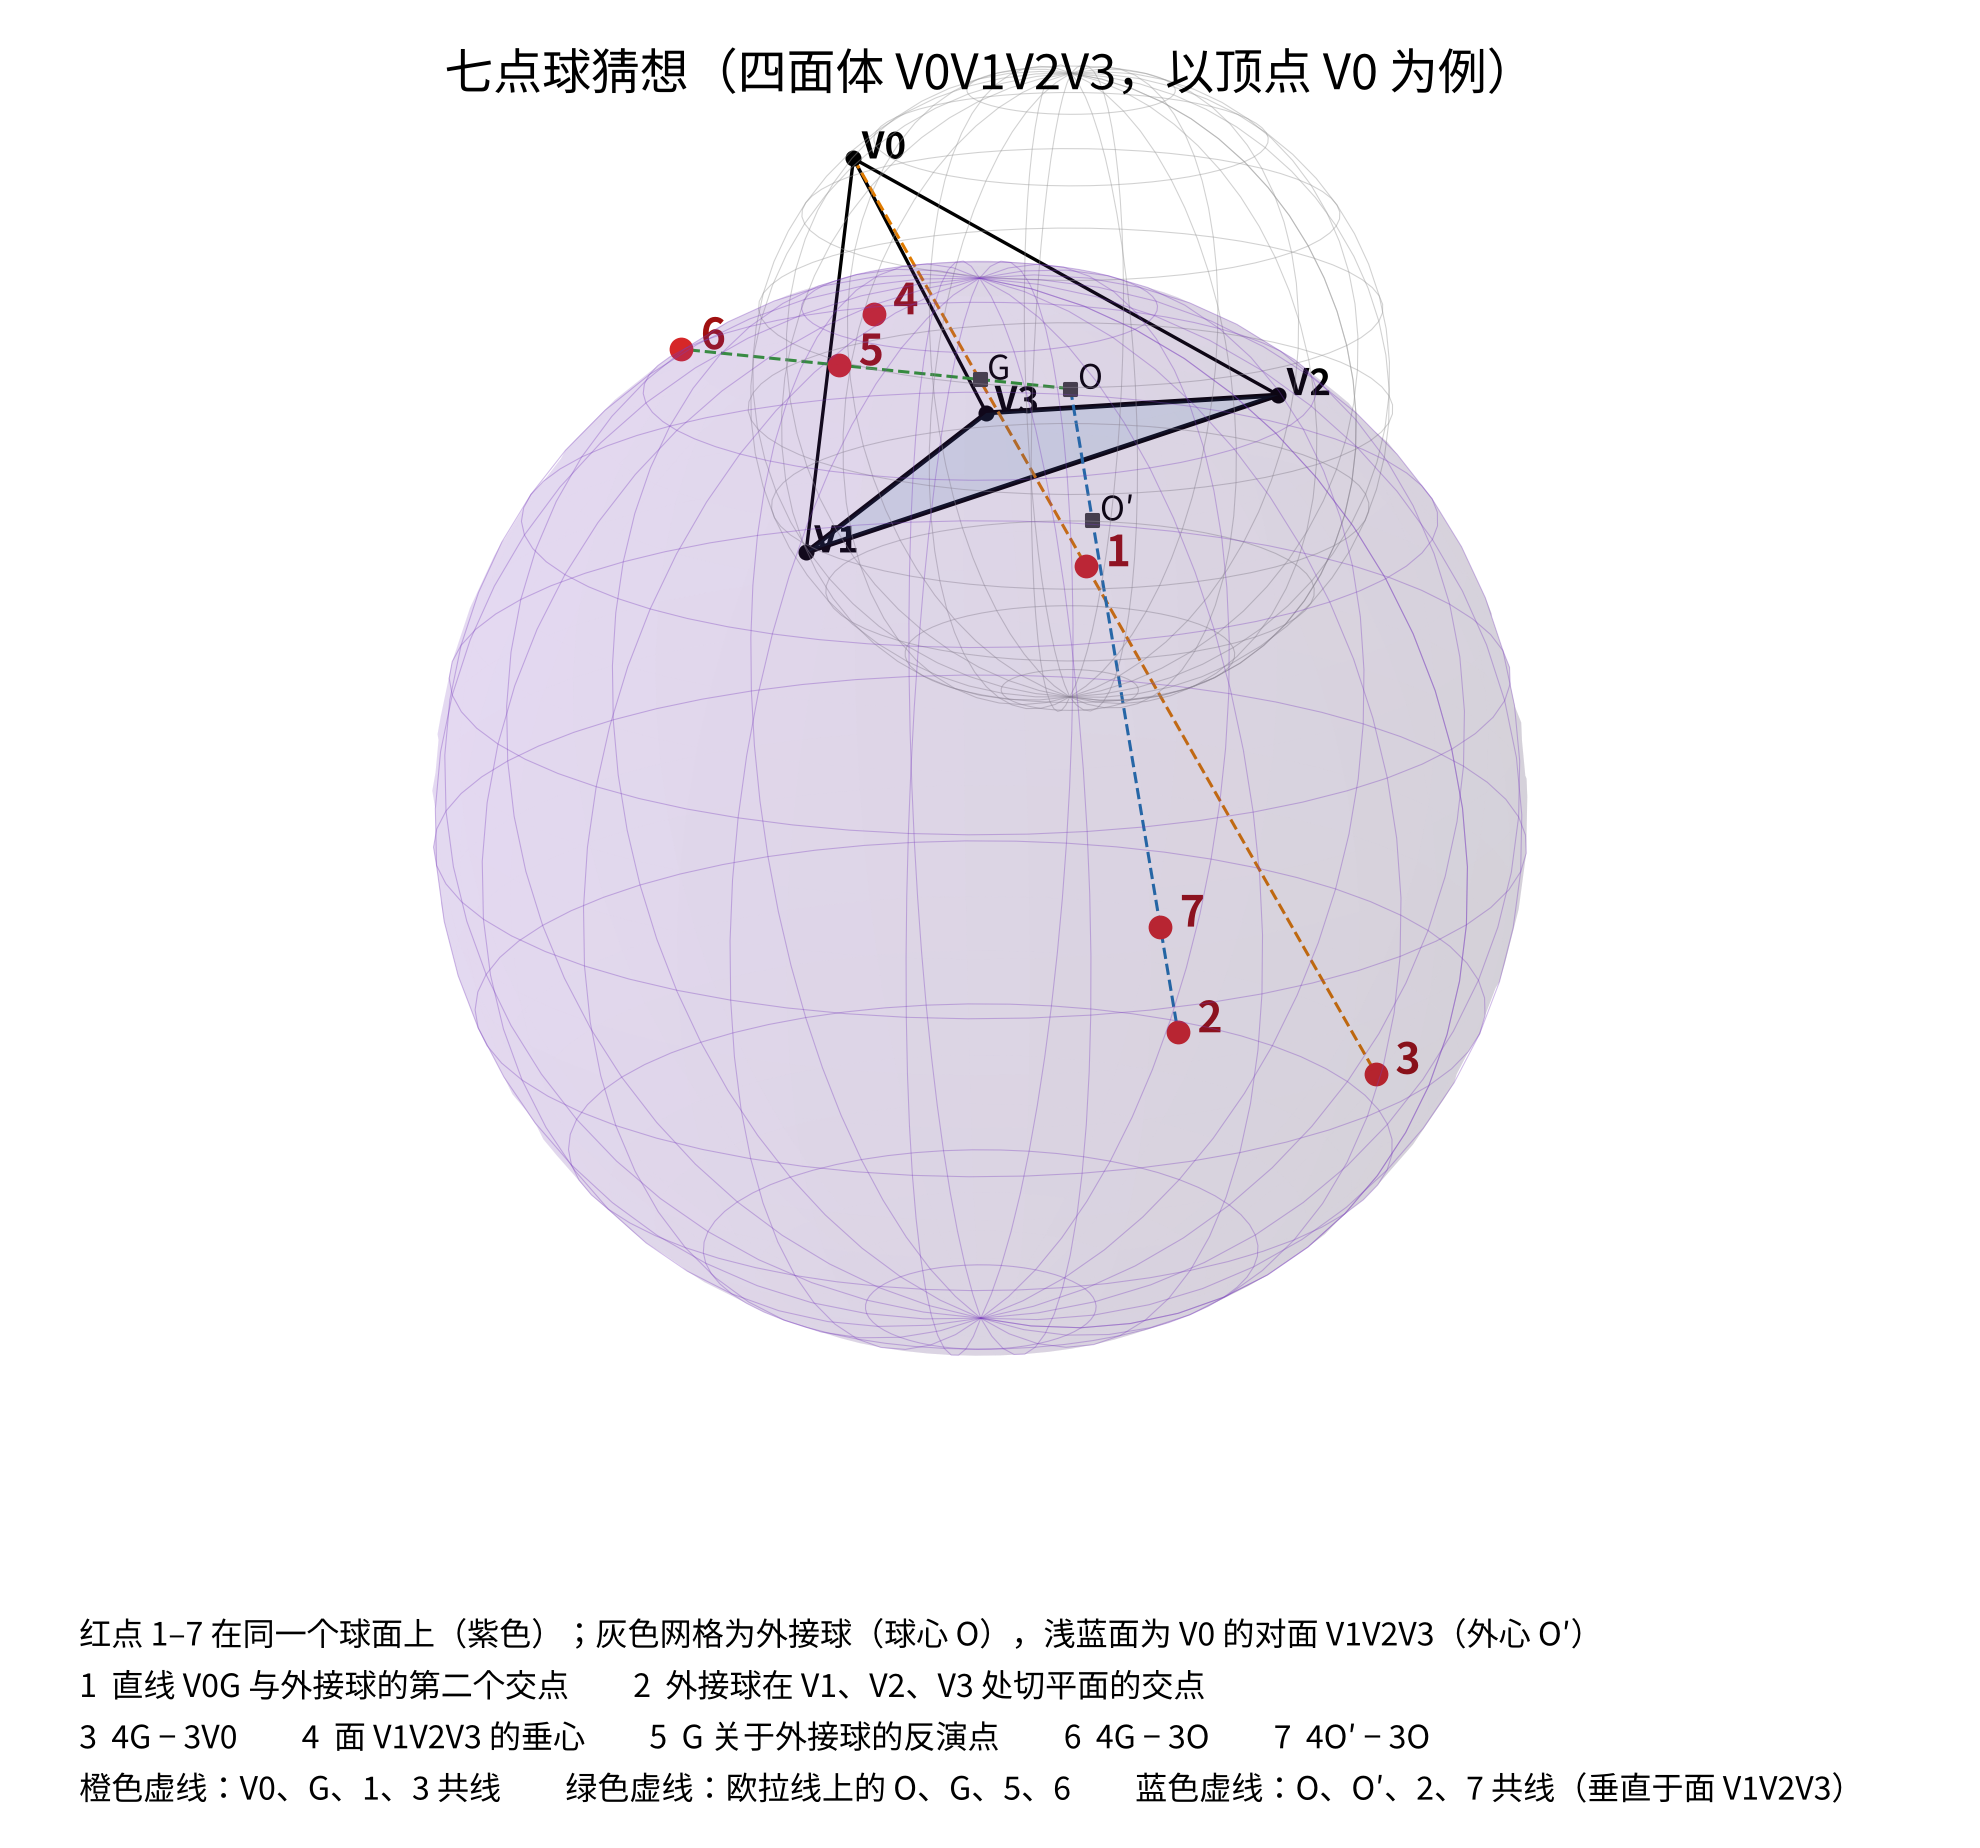
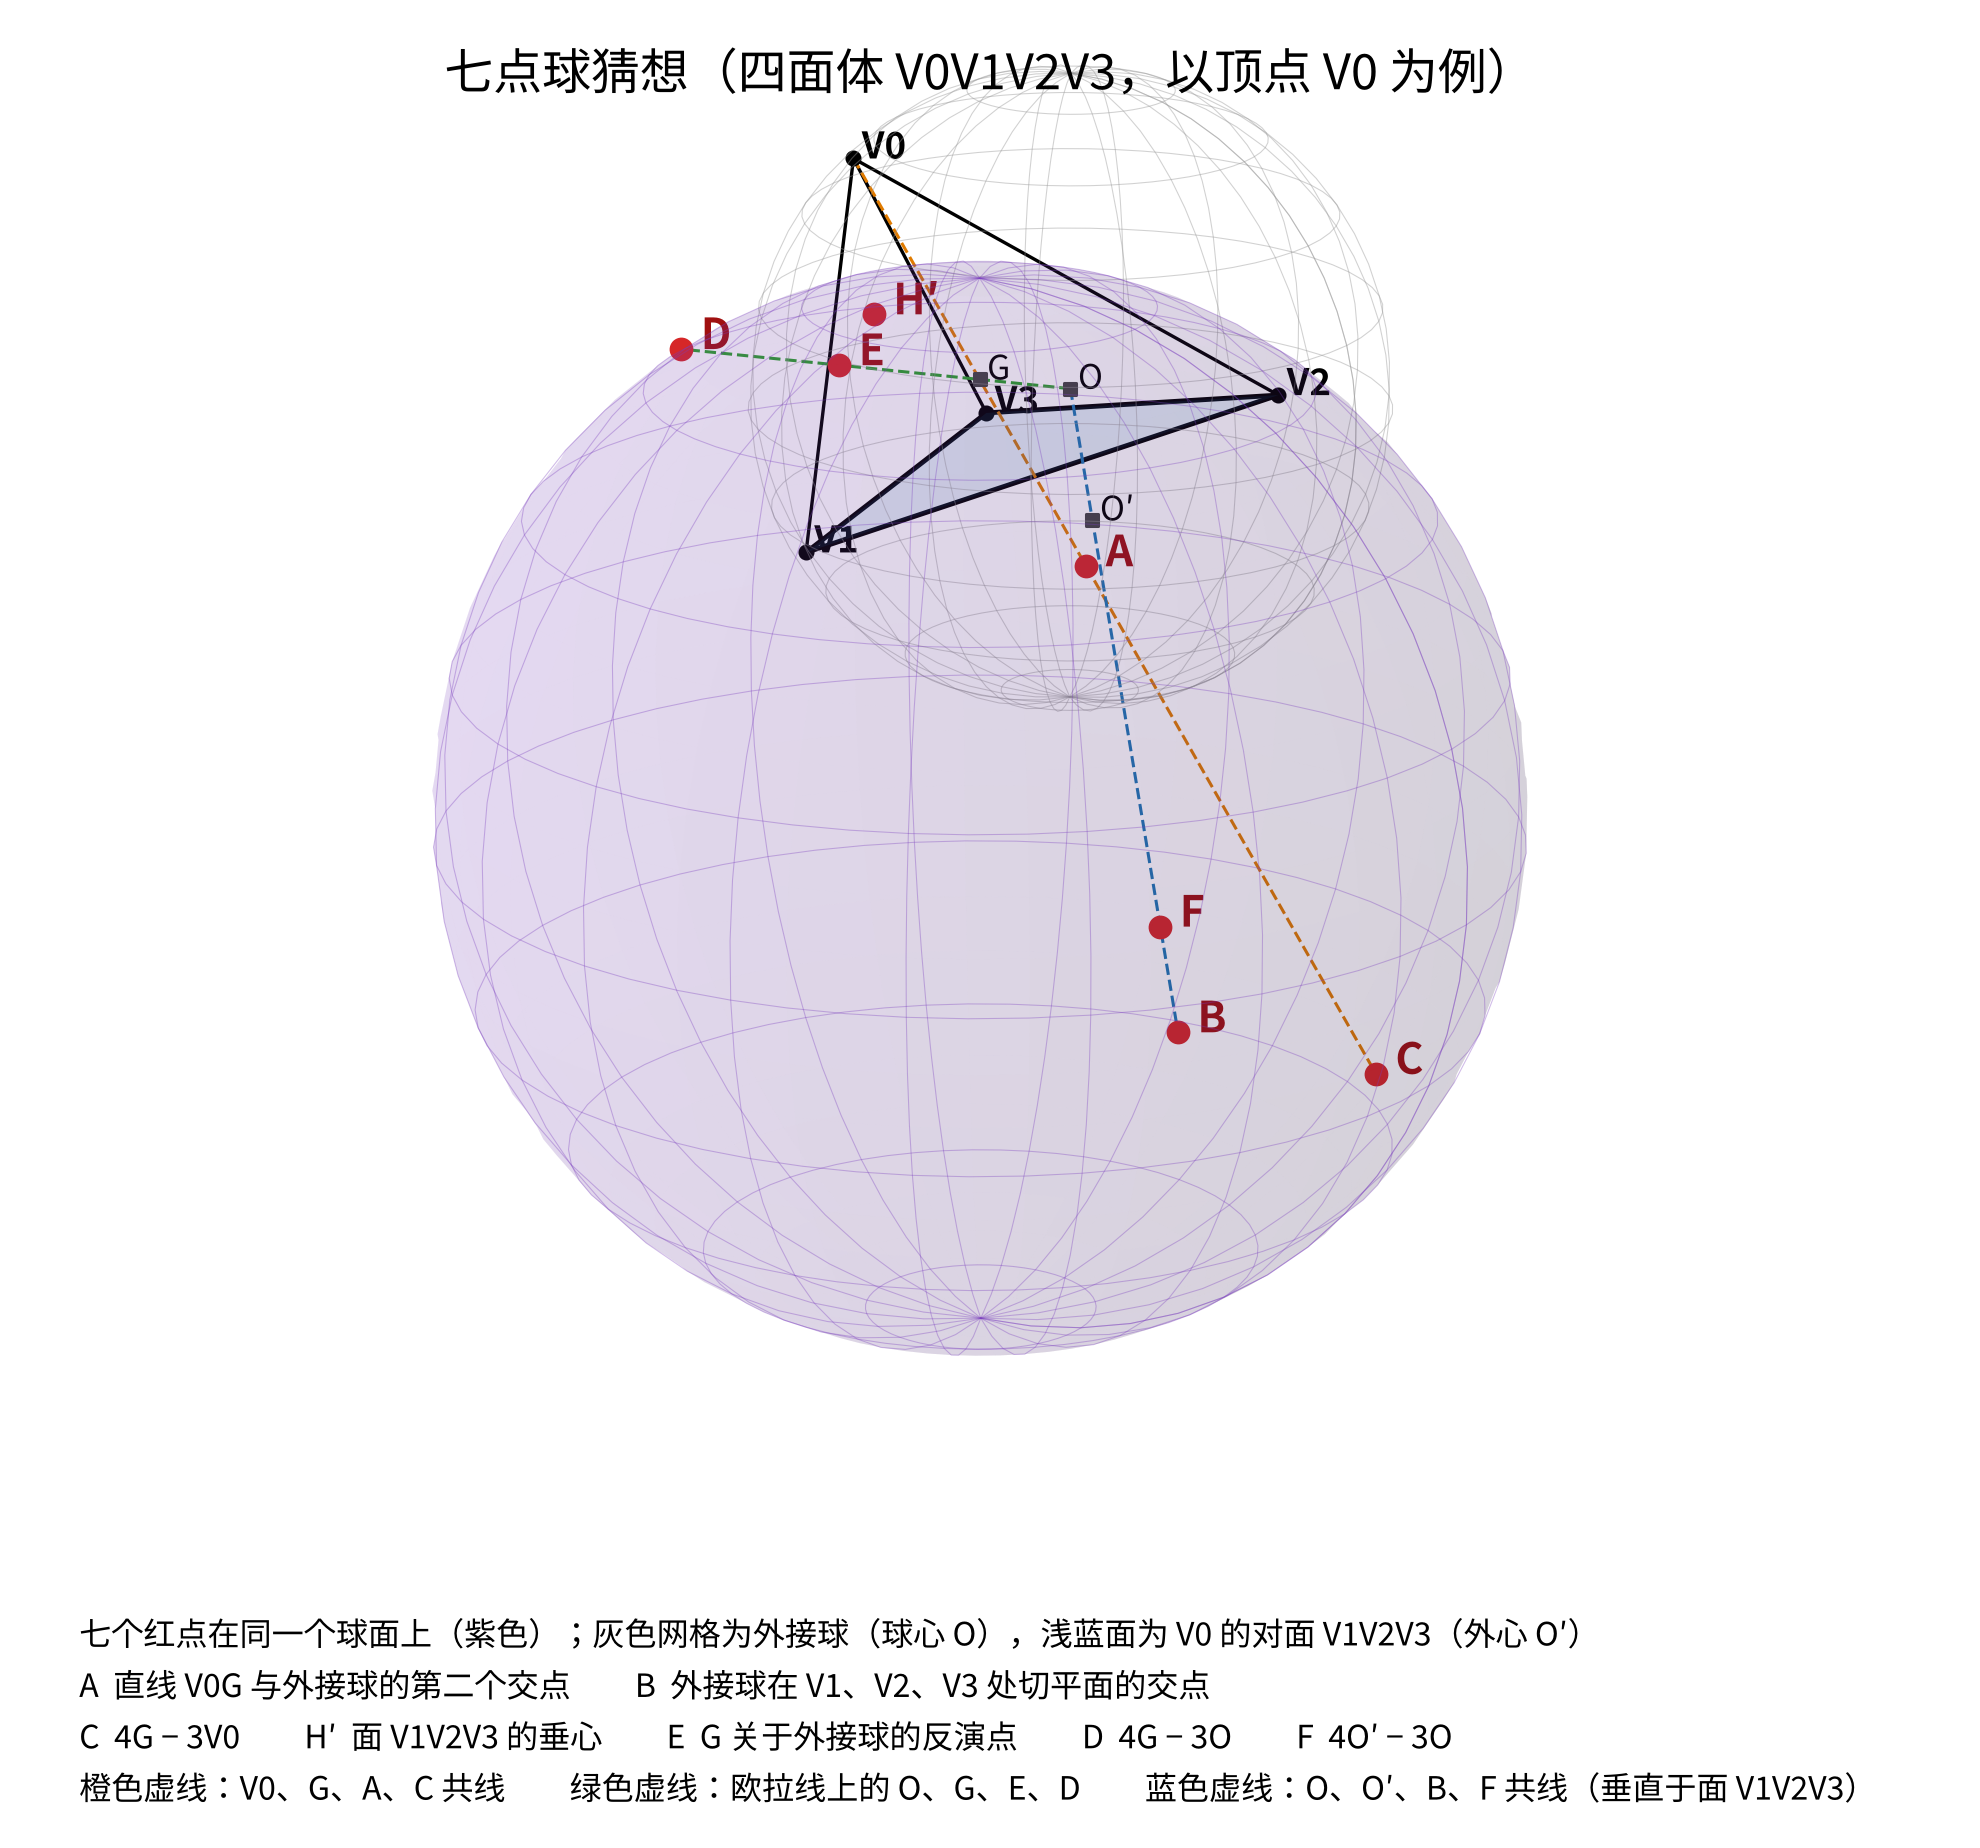
docs: 七点球总图换新版，图注跟着改
新图里七个点直接按字母标注（原先是 1–7 编号），md 图注相应改写。
论文两稿（英文 / 中文）的插图和图注一并更新并重新编译，但该目录在
.git/info/exclude 里，不进仓库。

diff --git a/docs/七点球定理.md b/docs/七点球定理.md
@@ -24,7 +24,7 @@
 
 <img src="../pics/seven_point_sphere/seven_point_sphere.png" alt="七点球：四面体 V0V1V2V3 以顶点 V0 为例" width="900">
 
-图：以 V0 为例的七点球（紫色）。灰色网格是外接球（球心 O），浅蓝面是 V0 的对面 V1V2V3（外心 O′）。红点 1–7 依次是表中的 A、B、C、H′、E、D（= 4G−3O）、F（= 4O′−3O）。三条虚线正对应证明里用到的三条共线关系：橙色是 V0、G、A、C 共线（G 把中线分成 3:1，这给出条件 (iii)）；绿色是欧拉线上的 O、G、E、4G−3O（E 与 4G−3O 是反演 J 的一对，给出条件 (i)）；蓝色是 O、O′、B、4O′−3O 共线且垂直于面 V1V2V3（B 与 4O′−3O 是 J 的另一对，给出条件 (ii)）。三条线各交出一个线性方程，球心就定下来了，H′ 和 A 随之自动落在球上。
+图：以 V0 为例的七点球（紫色）。灰色网格是外接球（球心 O），浅蓝面是 V0 的对面 V1V2V3（外心 O′）。七个红点按表中的记号标出：A、B、C、H′、E、D（= 4G−3O）、F（= 4O′−3O）。三条虚线正对应证明里用到的三条共线关系：橙色是 V0、G、A、C 共线（G 把中线分成 3:1，这给出条件 (iii)）；绿色是欧拉线上的 O、G、E、4G−3O（E 与 4G−3O 是反演 J 的一对，给出条件 (i)）；蓝色是 O、O′、B、4O′−3O 共线且垂直于面 V1V2V3（B 与 4O′−3O 是 J 的另一对，给出条件 (ii)）。三条线各交出一个线性方程，球心就定下来了，H′ 和 A 随之自动落在球上。
 
 <img src="../pics/seven_point_sphere/tangent_planes_B.png" alt="外接球在 V1、V2、V3 处的三个切平面交于一点 B" width="700">
 
